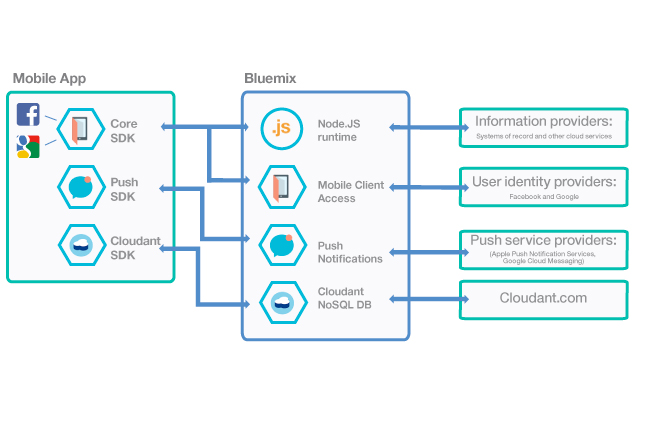
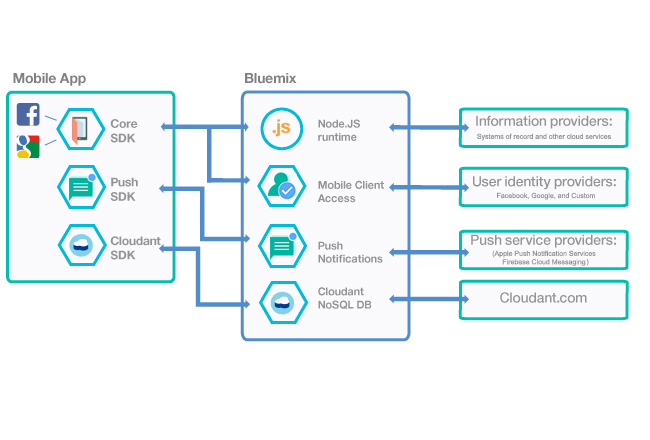
continuous delivery

diff --git a/mobile/sdk.md b/mobile/sdk.md
@@ -8,9 +8,6 @@ lastupdated: "2016-10-14"
 # SDKs
 {: #sdk}
 
-Last updated: 14 October 2016
-{: .last-updated}
-
 To add {{site.data.keyword.Bluemix}} Mobile Services SDKs to your app, choose the SDKs that you want to use and configure your dependency manager to pull the SDKs into your app.
 
 
@@ -24,9 +21,8 @@ You can use the following SDKs in your mobile application to leverage the respec
 {: #android_sdk}
 
 - [Core SDK](https://github.com/ibm-bluemix-mobile-services/bms-clientsdk-android-core) 
-- [Analytics API SDK](https://github.com/ibm-bluemix-mobile-services/mfp-clientsdk-android-analyticsspec) 
-- [Analytics SDK](https://github.com/ibm-bluemix-mobile-services/bms-clientsdk-android-analytics) 
-- [Push SDK](https://github.com/ibm-bluemix-mobile-services/bms-clientsdk-android-push) 
+- [{{site.data.keyword.mobileanalytics_short}} SDK](https://github.com/ibm-bluemix-mobile-services/bms-clientsdk-android-analytics) 
+- [{{site.data.keyword.mobilepushshort}} SDK](https://github.com/ibm-bluemix-mobile-services/bms-clientsdk-android-push) 
 - [Facebook Authentication SDK](https://github.com/ibm-bluemix-mobile-services/bms-clientsdk-android-security-facebookauthentication) 
 - [Google Authentication SDK](https://github.com/ibm-bluemix-mobile-services/bms-clientsdk-android-security-googleauthentication) 
 
@@ -35,19 +31,18 @@ You can use the following SDKs in your mobile application to leverage the respec
 {: #ios_sdk}
 
 - [Core SDK](https://github.com/ibm-bluemix-mobile-services/bms-clientsdk-swift-core)
-- [Analytics API SDK](https://github.com/ibm-bluemix-mobile-services/bms-clientsdk-swift-analytics-api) 
-- [Analytics SDK](https://github.com/ibm-bluemix-mobile-services/bms-clientsdk-swift-analytics) 
-- [Push SDK](https://github.com/ibm-bluemix-mobile-services/bms-clientsdk-swift-push) 
+- [{{site.data.keyword.mobileanalytics_short}} SDK](https://github.com/ibm-bluemix-mobile-services/bms-clientsdk-swift-analytics) 
+- [{{site.data.keyword.mobilepushshort}} SDK](https://github.com/ibm-bluemix-mobile-services/bms-clientsdk-swift-push) 
 - [Facebook Authentication SDK](https://github.com/ibm-bluemix-mobile-services/bms-clientsdk-swift-security-facebookauthentication)
 - [Google Authentication SDK](https://github.com/ibm-bluemix-mobile-services/bms-clientsdk-swift-security-googleauthentication) 
-- [Security SDK](https://github.com/ibm-bluemix-mobile-services/bms-clientsdk-swift-security) 
+- [{{site.data.keyword.amashort}} SDK](https://github.com/ibm-bluemix-mobile-services/bms-clientsdk-swift-security) 
 
 
 ### Cordova Plugins
 {: #cordova_plugin}
 
 - [Core plugin](https://github.com/ibm-bluemix-mobile-services/bms-clientsdk-cordova-plugin-core)
-- [Push plugin](https://github.com/ibm-bluemix-mobile-services/bms-clientsdk-cordova-plugin-push)
+- [{{site.data.keyword.mobilepushshort}} plugin](https://github.com/ibm-bluemix-mobile-services/bms-clientsdk-cordova-plugin-push)
 
 
 ## Server SDKs
@@ -56,17 +51,17 @@ You can use the following SDKs in your mobile application to leverage the respec
 If you have a Java, NodeJS, or Swift server application, you can use the following SDKs to communicate with the respective services.
 
 
-### Push Server SDKs
+### {{site.data.keyword.mobilepushshort}} Server SDKs
 {: #push_sdk}
 
-- [Push Java Server SDK](https://github.com/ibm-bluemix-mobile-services/bms-pushnotifications-serversdk-java) 
-- [Push Swift Server SDK](https://github.com/ibm-bluemix-mobile-services/bms-pushnotifications-serversdk-swift) 
-- [Push NodeJS Server SDK](https://github.com/ibm-bluemix-mobile-services/bms-pushnotifications-serversdk-nodejs)
+- [{{site.data.keyword.mobilepushshort}} Java Server SDK](https://github.com/ibm-bluemix-mobile-services/bms-pushnotifications-serversdk-java) 
+- [{{site.data.keyword.mobilepushshort}} Swift Server SDK](https://github.com/ibm-bluemix-mobile-services/bms-pushnotifications-serversdk-swift) 
+- [{{site.data.keyword.mobilepushshort}} NodeJS Server SDK](https://github.com/ibm-bluemix-mobile-services/bms-pushnotifications-serversdk-nodejs)
 
 
-### MCA Server SDK
+### {{site.data.keyword.amashort}} Server SDK
 {: #mca_sdk}
 
-- [MCA Swift Server SDK](https://github.com/ibm-bluemix-mobile-services/bms-mca-serversdk-swift)
+- [{{site.data.keyword.amashort}} Swift Server SDK](https://github.com/ibm-bluemix-mobile-services/bms-mca-serversdk-swift)
 
 

diff --git a/mobile/try_mobile.md b/mobile/try_mobile.md
@@ -9,9 +9,6 @@ lastupdated: "2016-10-19"
 # Creating mobile apps from the {{site.data.keyword.mobilefirstbp}} Starter boilerplate
 {: #try_mobile}
 
-Last updated: 19 October 2016
-{: .last-updated}
-
 You can use each of the {{site.data.keyword.Bluemix}} Mobile services independently. You can also use them together, with the {{site.data.keyword.mobilefirstbp}} Starter boilerplate, to get the most benefit.
 
 To get started, use the {{site.data.keyword.mobilefirstbp}} Starter to create your app. The boilerplate enables you to complete the following actions:
@@ -48,11 +45,11 @@ You can either use all of the {{site.data.keyword.Bluemix_notm}} Mobile services
 </td>
 </tr>
 <tr>
-<td><img src="images/catalog_icons-05.png" alt="{{site.data.keyword.amashort}} service icon"> <b>{{site.data.keyword.amashort}}</b><br/>Use the {{site.data.keyword.amafull}}  service to protect Node.js and Java for Liberty applications that are hosted on {{site.data.keyword.Bluemix_notm}}. By instrumenting your mobile app with the {{site.data.keyword.amashort}} SDK, you can require users to log in to access to Node.js or {{site.data.keyword.Bluemix_notm}} Mobile services. In addition to security capabilities, {{site.data.keyword.amashort}} also gathers analytics data, so that you can monitor your mobile application performance and collect client logs and usage statistics. </td>
-<td valign="top"><b>User identity providers</b> <br/>You can use the following identity providers: <ul><li>Facebook</li><li>Google</li></ul></td>
+<td><img src="images/authentication_icon.png" alt="{{site.data.keyword.amashort}} service icon"> <b>{{site.data.keyword.amashort}}</b><br/>Use the {{site.data.keyword.amafull}}  service to protect Node.js and Java for Liberty applications that are hosted on {{site.data.keyword.Bluemix_notm}}. By instrumenting your mobile app with the {{site.data.keyword.amashort}} SDK, you can require users to log in to access to Node.js or {{site.data.keyword.Bluemix_notm}} Mobile services. <!-- In addition to security capabilities, {{site.data.keyword.amashort}} also gathers analytics data, so that you can monitor your mobile application performance and collect client logs and usage statistics.--> </td>
+<td valign="top"><b>User identity providers</b> <br/>You can use the following identity providers: <ul><li>Facebook</li><li>Google</li><li> Custom </li></ul></td>
 </tr>
 <tr>
-<td><img src="images/catalog_icons-09.png" alt="Push Notifications service icon"> <b>{{site.data.keyword.mobilepushshort}}</b><br/>The  {{site.data.keyword.mobilepushfull}} service provides a unified platform to send and manage push notifications targeted to Mobile (iOS & Android) platforms, and Web browser applications. This service manages the mapping of your application users to their devices, device platform, and browsers, and handles dispatching push notifications to subscribers. With this service, you can send broadcasts, unicasts (based on userID, deviceID), and tags (or topics) based on push notifications to your customers.</td>
+<td><img src="images/push_icon.png" alt="Push Notifications service icon"> <b>{{site.data.keyword.mobilepushshort}}</b><br/>The  {{site.data.keyword.mobilepushfull}} service provides a unified platform to send and manage push notifications targeted to Mobile (iOS & Android) platforms, and Web browser applications. This service manages the mapping of your application users to their devices, device platform, and browsers, and handles dispatching push notifications to subscribers. With this service, you can send broadcasts, unicasts (based on userID, deviceID), and tags (or topics) based on push notifications to your customers.</td>
 <td valign="top"><b>Push service providers</b><ul><li>Apple Push Notifications Service</li><li>Firebase Cloud Messaging</li></ul></td>
 </tr>
 <tr>

diff --git a/mobile/index.md b/mobile/index.md
@@ -9,8 +9,6 @@ lastupdated: "2016-10-21"
 
 # {{site.data.keyword.Bluemix}} Mobile dashboard
 {: #mobile}
-Last updated: 21 October 2016
-{: .last-updated}
 
 The {{site.data.keyword.Bluemix}} Mobile dashboard offers a single place to manage the {{site.data.keyword.Bluemix_notm}} capabilities that you need to create and manage your {{site.data.keyword.Bluemix_notm}} Mobile application. The Mobile dashboard brings the most common services that are required for a mobile developer into a single, connected experience that has been optimized for the mobile developer.
 
@@ -31,9 +29,9 @@ To get started with the Mobile dashboard, click the **Mobile** category from you
 ## Getting Started
 {: getting-started-mobiledashboard}
 
-The dashboard enables you to manage mobile apps through the concept of a project. Create a project on the **Getting Started** page by clicking **Create Project**. You will be presented with [Starter](starters.html) options that enable you to quickly start creating your app.
+The dashboard enables you to manage mobile apps through the concept of [Projects](projects.html). Create a project on the **Getting Started** page by clicking **Create Project**. You will be presented with [Starter](starters.html) options that enable you to quickly start creating your app.
 
-With the [Projects](projects.html) view, you can manage all of your projects in one place. The project holds all of the capability information that you need for the mobile app. You can easily integrate and manage Push, Analytics, and Authentication mobile services in the project, with more capabilities to follow in the near future.
+You can view and manage all of your projects in one place by selecting the Projects page. The project holds the information for all of the capabilities that are (and can be) integrated with your mobile app. If it is available, you can easily integrate and manage Push, Analytics, and Authentication mobile services in the project, with more capabilities to follow in the near future.
 
 The [Services](services.html) view shows an operational view of your existing mobile service instances. The Mobile dashboard supports a mobile developer and a mobile app management user.
 
@@ -65,6 +63,7 @@ Check back often to stay current with new features.
 * [Blog Post: Introducing Bluemix Mobile Code Starters](https://www.ibm.com/blogs/bluemix/2016/10/rapid-dev-with-mobile-code-starters/){: new_window}
 * [Blog Post: Bluemix Mobile, Part 1: Creating a Store Catalog application](https://developer.ibm.com/bluemix/2016/07/13/bluemix-mobile-creating-store-catalog-app-part1/){: new_window}
 * [Blog Post: Bluemix Mobile, Part 2: Integrating custom Bluemix backend into the Store Catalog app](https://developer.ibm.com/bluemix/2016/07/14/bluemix-mobile-integrating-custom-backend-part2/){: new_window}
+* [developerWorks Recipe: Receive weather updates in your own language using IBM Bluemix Push Notification Service and Language Translator](https://developer.ibm.com/recipes/tutorials/receive-weather-updates-in-your-own-language-using-ibm-bluemix-push-notification-service-and-language-translator/){: new_window}
 
 <!--## Tutorials and Samples
 {: #samples}

diff --git a/mobile/starters.md b/mobile/starters.md
@@ -13,18 +13,17 @@ lastupdated: "2016-10-21"
 # Starters
 {: #starters}
 
-Last updated: 21 October 2016
-{: .last-updated}
-
 With the {{site.data.keyword.Bluemix}} Mobile dashboard, you can create your project by using a UI Starter or a Code Starter.
+
 
 ## UI Starter
 {: #UI_Starter}
 
-
 {{site.data.keyword.Bluemix_notm}} mobile developers can use UI Starters to create apps using the UI Builder, which enables an application to be designed using a visual editor. <!--The UI Builder assists you when you have an idea to prototype quickly.--> The UI Builder is useful for sketching an idea or when you need to quickly prototype a mobile experience. The UI Builder requires little programming knowledge or mobile development for you to be productive quickly.  <!-- The UI Starters give you patterns of applications that enable you to modify and adjust to your use case needs. If you want to start from scratch and build an idea up from nothing use the Empty starter. Each UI starter is configured to be enabled with Push and Analytics capabilities if you decide to configure this for you Mobile Project.*App views can be bound to data with little programming knowledge, which enables apps to be started and native source code to be generated quickly.* -->
 
 The UI Starters offer patterns of applications that enable you to modify and adjust to your use case needs. Use the Blank starter when you want to build an idea from nothing. Each UI Starter is configured to be enabled with Push and Analytics capabilities, if you decide to configure them for your mobile project.
+
+If you are starting with a UI Starter, continue with [Using a UI Starter to create a project](projects_ui.html).
 
 <!-- If you choose to create your project with a UI Starter, you have the option to design your app from within the UI Builder.-->
 
@@ -38,9 +37,12 @@ Code Starters are optimized to be production ready starter code that focuses on 
 
 If you choose to create your project with a Code Starter, you do not have the option to design your app from within the UI Builder.
 
+If you are starting with a Code Starter, continue with [Using a Code Starter to create a project](projects_code.html).
 
 ## Tutorials
 {: #tutorials}
+
+For more in-depth instructions about how to create apps with Starters, you can use the end-to-end tutorials. 
 
 ### UI Starter tutorials
 {: #tutorials_UI}
@@ -50,6 +52,6 @@ If you choose to create your project with a Code Starter, you do not have the op
 ### Code Starter tutorials
 {: #tutorials_Code}
 
-* [End-to-end tutorial of the {{site.data.keyword.visualrecognition}} Code Starter](tutorial.html)
+* [End-to-end tutorial of the {{site.data.keyword.visualrecognitionshort}} Code Starter](tutorial.html)
 * [Tutorial - Watson Language](tutorial_watson_language.html)
 * [Tutorial - Weather](tutorial_weather.html)

diff --git a/mobile/tutorial.md b/mobile/tutorial.md
@@ -10,9 +10,6 @@ lastupdated: "2016-10-21"
 # End-to-end tutorial of the {{site.data.keyword.visualrecognitionshort}} Code Starter
 {: #tutorial}
 
-Last updated: 21 October 2016
-{: .last-updated}
-
 The following end-to-end tutorial walks through the steps to create a project from the {{site.data.keyword.visualrecognitionshort}} Code Starter, including the tools that you must have installed, and subsequently, the steps to run the starter in Xcode and Android Studio.
 
 
@@ -97,7 +94,7 @@ Ensure that you have installed the [prerequisite developer tools](get_code.html#
 
 2. Open the `README.md` file in a Markdown viewer to review the steps to configure your project.
 
-   1. Create your [{{site.data.keyword.visualrecognitionshort}}](https://new-console.{DomainName}/catalog/services/visual-recognition/){: new_window} service instance.
+   1. Create your [{{site.data.keyword.visualrecognitionshort}}](https://console.{DomainName}/catalog/services/visual-recognition/){: new_window} service instance.
    
    2. Open your Terminal and navigate to your project folder.
    
@@ -127,7 +124,7 @@ Ensure that you have installed the [prerequisite developer tools](get_code.html#
 
 2. Open the `README.md` file in a Markdown viewer to configure your project.
 
-   1. Create your [{{site.data.keyword.visualrecognitionshort}}](https://new-console.{DomainName}/catalog/services/visual-recognition/){: new_window} service instance.
+   1. Create your [{{site.data.keyword.visualrecognitionshort}}](https://console.{DomainName}/catalog/services/visual-recognition/){: new_window} service instance.
    
       Skip this step if you already have a {{site.data.keyword.visualrecognitionshort}} service instance.
    
@@ -181,6 +178,7 @@ View other tutorials.
 * [Blog Post: Introducing Bluemix Mobile Code Starters](https://www.ibm.com/blogs/bluemix/2016/10/rapid-dev-with-mobile-code-starters/){: new_window}
 * [Blog Post: Bluemix Mobile, Part 1: Creating a Store Catalog application](https://developer.ibm.com/bluemix/2016/07/13/bluemix-mobile-creating-store-catalog-app-part1/){: new_window}
 * [Blog Post: Bluemix Mobile, Part 2: Integrating custom Bluemix backend into the Store Catalog app](https://developer.ibm.com/bluemix/2016/07/14/bluemix-mobile-integrating-custom-backend-part2/){: new_window}
+* [developerWorks Recipe: Receive weather updates in your own language using IBM Bluemix Push Notification Service and Language Translator](https://developer.ibm.com/recipes/tutorials/receive-weather-updates-in-your-own-language-using-ibm-bluemix-push-notification-service-and-language-translator/){: new_window}
 
 ## Tutorials and Samples
 {: #samples}

diff --git a/mobile/projects.md b/mobile/projects.md
@@ -13,13 +13,8 @@ lastupdated: "2016-10-20"
 # Projects
 {: #projects}
 
-Last updated: 20 October 2016
-{: .last-updated}
+The {{site.data.keyword.Bluemix}} Mobile dashboard combines the app user interface, data, and services in a complete *project*. By creating a project, all of the required parts of your app and the added capabilities are maintained on the {{site.data.keyword.Bluemix_notm}} server. You can download your app code after completing your project, and the required IDs for  enabling the capabilities and data are already added to the required locations in the code. You can view all of your projects by selecting *Projects* in the Mobile navigation.  
 
-The {{site.data.keyword.Bluemix}} Mobile dashboard combines the app user interface, data, and services in a complete *project*. By creating a project, all of the required parts of your app and the added capabilities are maintained on the {{site.data.keyword.Bluemix_notm}} server.  You can download your app code after completing your project, and the required IDs to enable the capabilities and data are already added to the required locations in the code.
+You can view additional information about a single project by selecting it on the Projects page. This displays the Project Overview page, which includes the services that are configured and available for the project. Services are separate capabilities that extend your app by adding a function. Because they are added individually, you can add the services that you need, like push services, authentication, or other services. When you add a service to your project on the Project Overview page and follow the instructions to configure it, it is automatically associated with your app.
 
-When creating your project, you can add services to the project.  Services are separate capabilities that extend your app by adding a function.  Because they are added individually, you can add only the services that you need, like push services, authentication, or other services.  When you add a service to your project on the Project Overview page and follow the instructions to configure it, it is automatically associated with your app.
-
-If you are starting with a UI Starter, continue with [Creating a project with a UI Starter](projects_ui.html).
-
-If you are starting with a Code Starter, continue with [Creating a project with a Code Starter](projects_code.html).
+Immediately after creating your project, you must select a Starter for your project.  To learn more about Starters, see [Starters](starters.html).

diff --git a/mobile/tutorial_store_catalog.md b/mobile/tutorial_store_catalog.md
@@ -10,9 +10,6 @@ lastupdated: "2016-10-21"
 # Tutorial - Store Catalog UI Starter
 {: #tutorial_store_catalog}
 
-Last updated: 21 October 2016
-{: .last-updated}
-
 The {{site.data.keyword.Bluemix}} Store Catalog UI Starter provides a basic sales app structure that you can customize, and gives you integration points for each of the {{site.data.keyword.Bluemix_notm}} Mobile services.
 
 
@@ -62,6 +59,8 @@ To get up and running quickly with the Store Catalog UI Starter, follow these st
 4. Design your app.
 
    1. Select **UI Builder** in the navigation menu to customize the design of your app.
+   
+		**Tip:** To view a quick overview of the UI Builder, select **Show me how it works** in the navigation after selecting the UI Builder.
 
    2. Select the **Design** tab in the navigation.
 
@@ -126,7 +125,7 @@ To get up and running quickly with the Store Catalog UI Starter, follow these st
 ## What to do next
 {: #tutorial_next}
 
-[Try it out!](http://new-console.{DomainName}/mobile/create-project?starter=fb5e31a9-1186-4d46-939e-2f620f35b83b){: new_window}
+[Try it out!](http://console.{DomainName}/mobile/create-project?starter=fb5e31a9-1186-4d46-939e-2f620f35b83b){: new_window}
 
 
 # Related Links
@@ -149,6 +148,7 @@ To get up and running quickly with the Store Catalog UI Starter, follow these st
 * [Blog Post: Introducing Bluemix Mobile Code Starters](https://www.ibm.com/blogs/bluemix/2016/10/rapid-dev-with-mobile-code-starters/){: new_window}
 * [Blog Post: Bluemix Mobile, Part 1: Creating a Store Catalog application](https://developer.ibm.com/bluemix/2016/07/13/bluemix-mobile-creating-store-catalog-app-part1/){: new_window}
 * [Blog Post: Bluemix Mobile, Part 2: Integrating custom Bluemix backend into the Store Catalog app](https://developer.ibm.com/bluemix/2016/07/14/bluemix-mobile-integrating-custom-backend-part2/){: new_window}
+* [developerWorks Recipe: Receive weather updates in your own language using IBM Bluemix Push Notification Service and Language Translator](https://developer.ibm.com/recipes/tutorials/receive-weather-updates-in-your-own-language-using-ibm-bluemix-push-notification-service-and-language-translator/){: new_window}
 
 ## Tutorials and Samples
 {: #samples}

diff --git a/mobile/projects_ui.md b/mobile/projects_ui.md
@@ -10,13 +10,10 @@ lastupdated: "2016-10-20"
 {:screen:.screen}
 {:codeblock:.codeblock}
 
-# Creating a project with a UI Starter
+# Using a UI Starter to create a project
 {: #projects_ui}
 
-Last updated: 20 October 2016
-{: .last-updated}
-
-You can use a UI Starter in {{site.data.keyword.Bluemix}} Mobile dashboard to create a project in the {{site.data.keyword.Bluemix_notm}} environment. This procedure does not apply to projects that use the Code Starters. See [Creating a project with a Code Starter](projects_code.html) for instructions for Code Starters.
+You can use a [UI Starter](starters.html#UI_Starter) in {{site.data.keyword.Bluemix}} Mobile dashboard to create a project in the {{site.data.keyword.Bluemix_notm}} environment. This procedure does not apply to projects that use the Code Starters. See [Creating a project with a Code Starter](projects_code.html) for instructions for Code Starters.
 {:shortdesc}
 
 Complete the following steps to create a project with a UI Starter:
@@ -47,7 +44,9 @@ Complete the following steps to create a project with a UI Starter:
 
    Note: Because the Code Starters do not have a customizable user interface, the *Design* tab is not available.
 
-    1. Select **UI Builder** in the navigation menu to customize the design of your app.<!--Most of the design screens have sections that begin with a navigation on the left of the screen, and the sections more specific as it moves to the right side preview of your app. Note: Not all design screens in the starters have the same sections.--> 
+    1. Select **UI Builder** in the navigation menu to customize the design of your app. 
+	
+		**Tip:** To view a quick overview of the UI Builder, select **Show me how it works** in the navigation after selecting the UI Builder. 
 	
 	2. Customize your app layout from the **Screens** tab.
 	

diff --git a/mobile/tutorial_watson_language.md b/mobile/tutorial_watson_language.md
@@ -10,9 +10,6 @@ lastupdated: "2016-10-21"
 # Tutorial - Watson Language Code Starter
 {: #tutorial_watson_language}
 
-Last updated: 21 October 2016
-{: .last-updated}
-
 The {{site.data.keyword.Bluemix}} Mobile Code Starter for Watson Language showcases the Text To Speech and Language Translation services from Watson and gives you integration points for each of the {{site.data.keyword.Bluemix_notm}} Mobile services.
 
 
@@ -88,7 +85,7 @@ To get up and running quickly with the Watson Language Code Starter, follow thes
 ## What to do next
 {: #tutorial_next}
 
-[Try it out!](http://new-console.{DomainName}/mobile/create-project?starter=512568a1-72db-35c7-b9c4-4f3e3bc89375){: new_window}
+[Try it out!](http://console.{DomainName}/mobile/create-project?starter=512568a1-72db-35c7-b9c4-4f3e3bc89375){: new_window}
 
 
 # Related Links
@@ -111,6 +108,7 @@ To get up and running quickly with the Watson Language Code Starter, follow thes
 * [Blog Post: Introducing Bluemix Mobile Code Starters](https://www.ibm.com/blogs/bluemix/2016/10/rapid-dev-with-mobile-code-starters/){: new_window}
 * [Blog Post: Bluemix Mobile, Part 1: Creating a Store Catalog application](https://developer.ibm.com/bluemix/2016/07/13/bluemix-mobile-creating-store-catalog-app-part1/){: new_window}
 * [Blog Post: Bluemix Mobile, Part 2: Integrating custom Bluemix backend into the Store Catalog app](https://developer.ibm.com/bluemix/2016/07/14/bluemix-mobile-integrating-custom-backend-part2/){: new_window}
+* [developerWorks Recipe: Receive weather updates in your own language using IBM Bluemix Push Notification Service and Language Translator](https://developer.ibm.com/recipes/tutorials/receive-weather-updates-in-your-own-language-using-ibm-bluemix-push-notification-service-and-language-translator/){: new_window}
 
 ## Tutorials and Samples
 {: #samples}

diff --git a/mobile/tutorial_weather.md b/mobile/tutorial_weather.md
@@ -10,9 +10,6 @@ lastupdated: "2016-10-21"
 # Tutorial - Weather Code Starter
 {: #tutorial_weather}
 
-Last updated: 21 October 2016
-{: .last-updated}
-
 The {{site.data.keyword.Bluemix}} Mobile Code Starter for Weather showcases a scaffold project to begin working with Weather, using Swift and includes Push and Analytics integration points.
 
 
@@ -88,7 +85,7 @@ To get up and running quickly with the Weather Code Starter, follow these steps:
 ## What to do next
 {: #tutorial_next}
 
-[Try it out!](http://new-console.{DomainName}/mobile/create-project?starter=fad1d49e-f7b6-3aff-9b53-14673fca4399){: new_window}
+[Try it out!](http://console.{DomainName}/mobile/create-project?starter=fad1d49e-f7b6-3aff-9b53-14673fca4399){: new_window}
 
 
 # Related Links
@@ -111,6 +108,7 @@ To get up and running quickly with the Weather Code Starter, follow these steps:
 * [Blog Post: Introducing Bluemix Mobile Code Starters](https://www.ibm.com/blogs/bluemix/2016/10/rapid-dev-with-mobile-code-starters/){: new_window}
 * [Blog Post: Bluemix Mobile, Part 1: Creating a Store Catalog application](https://developer.ibm.com/bluemix/2016/07/13/bluemix-mobile-creating-store-catalog-app-part1/){: new_window}
 * [Blog Post: Bluemix Mobile, Part 2: Integrating custom Bluemix backend into the Store Catalog app](https://developer.ibm.com/bluemix/2016/07/14/bluemix-mobile-integrating-custom-backend-part2/){: new_window}
+* [developerWorks Recipe: Receive weather updates in your own language using IBM Bluemix Push Notification Service and Language Translator](https://developer.ibm.com/recipes/tutorials/receive-weather-updates-in-your-own-language-using-ibm-bluemix-push-notification-service-and-language-translator/){: new_window}
 
 ## Tutorials and Samples
 {: #samples}

diff --git a/mobile/what_is_new.md b/mobile/what_is_new.md
@@ -10,9 +10,6 @@ lastupdated: "2016-10-21"
 # What's new in the Mobile dashboard
 {: #what_is_new}
 
-Last updated: 21 October 2016
-{: .last-updated}
-
 The October update of the {{site.data.keyword.Bluemix}} Mobile dashboard introduced the following changes:
 
    * You can now add Push Notifications and Analytics capabilities to your project directly from the dashboard.
@@ -63,6 +60,7 @@ Check back often to stay current with new updates.
 * [Blog Post: Introducing Bluemix Mobile Code Starters](https://www.ibm.com/blogs/bluemix/2016/10/rapid-dev-with-mobile-code-starters/){: new_window}
 * [Blog Post: Bluemix Mobile, Part 1: Creating a Store Catalog application](https://developer.ibm.com/bluemix/2016/07/13/bluemix-mobile-creating-store-catalog-app-part1/){: new_window}
 * [Blog Post: Bluemix Mobile, Part 2: Integrating custom Bluemix backend into the Store Catalog app](https://developer.ibm.com/bluemix/2016/07/14/bluemix-mobile-integrating-custom-backend-part2/){: new_window}
+* [developerWorks Recipe: Receive weather updates in your own language using IBM Bluemix Push Notification Service and Language Translator](https://developer.ibm.com/recipes/tutorials/receive-weather-updates-in-your-own-language-using-ibm-bluemix-push-notification-service-and-language-translator/){: new_window}
 
 ## Tutorials and Samples
 {: #samples}

diff --git a/mobile/projects_code.md b/mobile/projects_code.md
@@ -10,13 +10,10 @@ lastupdated: "2016-10-13"
 {:screen:.screen}
 {:codeblock:.codeblock}
 
-# Creating a project with a Code Starter
+# Using a Code Starter to create a project
 {: #projects_code}
 
-Last updated: 13 October 2016
-{: .last-updated}
-
-You can use a Code Starter in {{site.data.keyword.Bluemix}} Mobile dashboard to create a project in the {{site.data.keyword.Bluemix_notm}} environment. This procedure does not apply to projects that use the UI Starters. See [Creating a project with a UI Starter](projects_ui.html) for instructions for UI Starters. 
+You can use a [Code Starter](starters.html#Code_Starter) in {{site.data.keyword.Bluemix}} Mobile dashboard to create a project in the {{site.data.keyword.Bluemix_notm}} environment. This procedure does not apply to projects that use the UI Starters. See [Creating a project with a UI Starter](projects_ui.html) for instructions for UI Starters. 
 {:shortdesc}
 
 Complete the following steps to create a project with a Code Starter:
